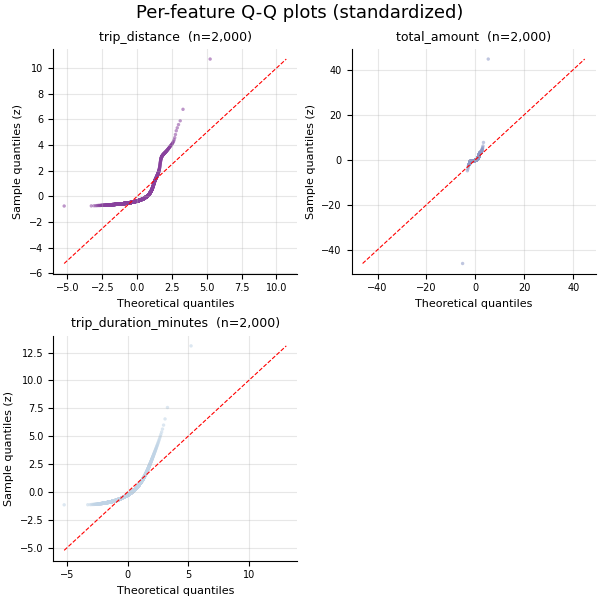
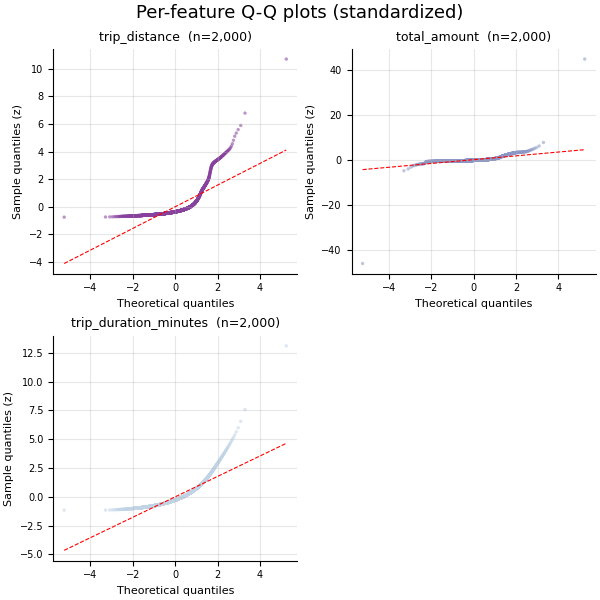
fix(qq): automate axis min/max, fix groups diagonal, add features fit line

diff --git a/src/broadway/discover/qq.py b/src/broadway/discover/qq.py
@@ -72,16 +72,18 @@ def _resolve_min_unique(override: int | None) -> int:
     return int(os.getenv("BROADWAY_QQ_MIN_UNIQUE", str(MIN_UNIQUE_FOR_QQ)))
 
 
-def _qq_points(vals: np.ndarray) -> tuple[np.ndarray, np.ndarray]:
-    """Standardized Q-Q points for one feature, thinned for plotting."""
+def _qq_points(
+    vals: np.ndarray,
+) -> tuple[np.ndarray, np.ndarray, float, float]:
+    """Standardized Q-Q points for one feature, thinned for plotting, plus fit line."""
     if vals.size < 2:
-        return np.array([]), np.array([])
+        return np.array([]), np.array([]), 0.0, 0.0
     z = (vals - vals.mean()) / vals.std(ddof=0)
-    osm, osr = stats.probplot(z, dist="norm", fit=False)
+    (osm, osr), (slope, intercept, _) = stats.probplot(z, dist="norm", fit=True)
     if osm.size > MAX_POINTS_PER_TRACE:
         idx = np.linspace(0, osm.size - 1, MAX_POINTS_PER_TRACE).astype(int)
         osm, osr = osm[idx], osr[idx]
-    return osm, osr
+    return osm, osr, float(slope), float(intercept)
 
 
 def _grid_dims(n: int) -> tuple[int, int]:
@@ -91,7 +93,7 @@ def _grid_dims(n: int) -> tuple[int, int]:
 
 
 def _plot_chunk(
-    traces: list[tuple[str, np.ndarray, np.ndarray]],
+    traces: list[tuple[str, np.ndarray, np.ndarray, float, float]],
     out_path: Path,
     fig_num: int,
     n_figs: int,
@@ -109,11 +111,10 @@ def _plot_chunk(
         layout="constrained",
     )
     ax_flat = axes.ravel()
-    for color, ax, (name, osm, osr) in zip(colors, ax_flat, traces):
+    for color, ax, (name, osm, osr, slope, intercept) in zip(colors, ax_flat, traces):
         ax.scatter(osm, osr, s=6, alpha=0.55, edgecolor="none", color=color)
-        lo = min(osm.min(), osr.min())
-        hi = max(osm.max(), osr.max())
-        ax.plot([lo, hi], [lo, hi], color="red", linestyle="--", linewidth=0.8)
+        xs = np.array([osm.min(), osm.max()])
+        ax.plot(xs, slope * xs + intercept, color="red", linestyle="--", linewidth=0.8)
         ax.set_xlabel("Theoretical quantiles", fontsize=8)
         ax.set_ylabel("Sample quantiles (z)", fontsize=8)
         ax.set_title(f"{name}  (n={osm.size:,})", fontsize=9)
@@ -188,7 +189,7 @@ def plot_numeric_qq(
     min_unique = _resolve_min_unique(min_unique_for_qq)
 
     features: list[QqFeature] = []
-    traces: dict[str, tuple[np.ndarray, np.ndarray]] = {}
+    traces: dict[str, tuple[np.ndarray, np.ndarray, float, float]] = {}
     hists: dict[str, tuple[np.ndarray, np.ndarray]] = {}
     excluded_notes: list[str] = []
     flagged_id_columns: list[str] = []
@@ -246,8 +247,8 @@ def plot_numeric_qq(
             ))
             continue
 
-        osm, osr = _qq_points(finite)
-        traces[name] = (osm, osr)
+        osm, osr, slope, intercept = _qq_points(finite)
+        traces[name] = (osm, osr, slope, intercept)
         counts, edges = np.histogram(finite, bins="auto")
         hists[name] = (counts, edges)
         features.append(QqFeature(

diff --git a/tests/test_qq.py b/tests/test_qq.py
@@ -10,7 +10,7 @@ import yaml
 import broadway.discover.module as discover_module
 from broadway.config.loader import load_config
 from broadway.discover.profile import ColumnProfile, DatasetProfile
-from broadway.discover.qq import QqFeature, QqOverview, plot_numeric_qq
+from broadway.discover.qq import QqFeature, QqOverview, _qq_points, plot_numeric_qq
 from broadway.lineage import records
 from broadway.reports import audit
 from broadway.timeline import module as timeline_module
@@ -58,6 +58,7 @@ def test_run_normality_produces_single_joint_qq(tmp_path, monkeypatch) -> None:
     assert list(figures_dir.glob("normality_*.png")) == [figures_dir / "normality_qq.png"]
     assert [f.path for f in step.figures] == ["figures/normality_qq.png"]
     assert "standardized" in step.figures[0].caption
+    assert "y = x diagonal" in step.figures[0].caption
     assert step.result_summary.get("standardization") == "per-group z-score"
 
     evidence = NormalityEvidence.model_validate_json(
@@ -81,6 +82,30 @@ def test_run_normality_caps_at_twelve_groups(tmp_path, monkeypatch) -> None:
     assert "truncation" in step.result_summary
     assert "12" in step.result_summary["truncation"]
     assert "15" in step.result_summary["truncation"]
+
+
+def test_qq_points_returns_fit_line_params() -> None:
+    rng = np.random.default_rng(0)
+    vals = rng.normal(0.0, 1.0, 200)
+
+    osm, osr, slope, intercept = _qq_points(vals)
+
+    assert osm.shape == (200,)
+    assert osr.shape == (200,)
+    assert isinstance(slope, float)
+    assert isinstance(intercept, float)
+    assert slope == pytest.approx(1.0, abs=0.05)
+    assert intercept == pytest.approx(0.0, abs=0.05)
+
+
+def test_qq_points_thins_large_input() -> None:
+    rng = np.random.default_rng(0)
+    vals = rng.normal(0.0, 1.0, 5_000)
+
+    osm, osr, slope, intercept = _qq_points(vals)
+
+    assert osm.size == 2_000
+    assert osr.size == 2_000
 
 
 def _qq_df() -> pd.DataFrame:
@@ -408,6 +433,7 @@ def test_render_profile_includes_qq_evidence() -> None:
     assert "Traces are per-feature z-score." in md
     assert "Histograms are in raw units." in md
     assert "How to read (Q-Q)" in md
+    assert "fitted reference line" in md
     assert "How to read (distribution)" in md
     assert "- const: zero variance" in md
     assert "- disc: discrete (3 unique values)" in md

diff --git a/src/broadway/timeline/runners.py b/src/broadway/timeline/runners.py
@@ -41,8 +41,8 @@ GROUP_SIZES_CAPTION = (
     "very unequal bars indicate imbalance."
 )
 QQ_CAPTION = (
-    "How to read: each trace is one group's standardized values; traces hugging "
-    "the diagonal are approximately normal; curvature or heavy tails indicate "
+    "How to read: each trace is one group's standardized values; points following "
+    "the y = x diagonal are approximately normal; curvature or heavy tails indicate "
     "non-normality."
 )
 MAX_QQ_GROUPS = 12
@@ -192,14 +192,18 @@ def _plot_qq_joint(
     names = list(groups)[:max_groups]
     fig = plt.figure(figsize=(7, 7))
     ax = fig.add_subplot(111)
+    osm_all: list[np.ndarray] = []
+    osr_all: list[np.ndarray] = []
     for name in names:
         vals = np.asarray(groups[name], dtype=float)
         z = (vals - vals.mean()) / vals.std()
         osm, osr = stats.probplot(z, dist="norm", fit=False)
+        osm_all.append(osm)
+        osr_all.append(osr)
         ax.scatter(osm, osr, s=10, label=name)
-    lower = min(ax.get_xlim()[0], ax.get_ylim()[0])
-    upper = max(ax.get_xlim()[1], ax.get_ylim()[1])
-    ax.plot([lower, upper], [lower, upper], color="red", linestyle="--", linewidth=1)
+    lo = min(np.concatenate(osm_all).min(), np.concatenate(osr_all).min())
+    hi = max(np.concatenate(osm_all).max(), np.concatenate(osr_all).max())
+    ax.plot([lo, hi], [lo, hi], color="red", linestyle="--", linewidth=1)
     ax.set_xlabel("Theoretical quantiles (standard normal)")
     ax.set_ylabel("Sample quantiles (standardized)")
     ax.set_title("Joint per-group Q-Q plot (per-group standardization)")

diff --git a/src/broadway/reports/audit.py b/src/broadway/reports/audit.py
@@ -108,7 +108,7 @@ def _render_profile_evidence(qq: QqOverview | None) -> list[tuple[str, str]]:
         lines.append("")
         lines.extend(_render_figure_block("Per-feature Q-Q plots", qq.figures, qq_by_figure))
         lines.append(
-            "How to read (Q-Q): traces hugging the diagonal are approximately normal; "
+            "How to read (Q-Q): points should follow the fitted reference line; "
             "S-curves indicate tail behavior; curvature indicates skew."
         )
         lines.append("")

diff --git a/reports/audit/profile.md b/reports/audit/profile.md
@@ -31,7 +31,7 @@ Traces are per-feature z-score.
 
 In this figure: trip_distance, total_amount, trip_duration_minutes. Chunk 1 of 1; the trailing `_1` in the filename is the chunk number.
 
-How to read (Q-Q): traces hugging the diagonal are approximately normal; S-curves indicate tail behavior; curvature indicates skew.
+How to read (Q-Q): points should follow the fitted reference line; S-curves indicate tail behavior; curvature indicates skew.
 
 Histograms are in raw units.
 
